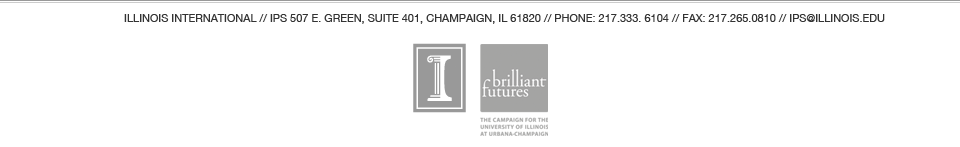
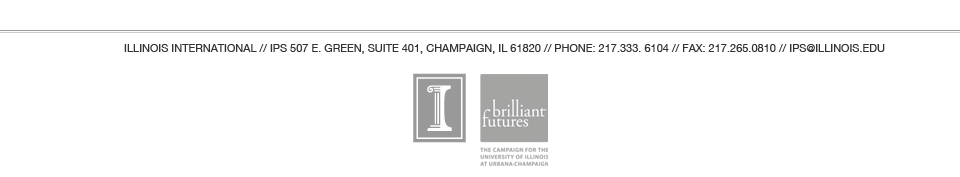
New Footer (gradient to fade to #f1f1f1)

diff --git a/style.css b/style.css
@@ -49,7 +49,7 @@ body {
 }
 
 #footer {
-	margin-top: 30px;
+	/**margin-top: 30px;**/
 	height: 147px;
 	background-image: url('footer.png');
 }
@@ -346,7 +346,7 @@ body {
 	text-align: right;
 	padding-right: 30px;
 	width: 245px;
-	background: rgba(255,255,255,0.7);
+	background: rgba(255,255,255,0.5);
 	border-right: 2px dotted #e3e3e3;
 	margin-top: 23px;
 	padding-bottom: 10px;
